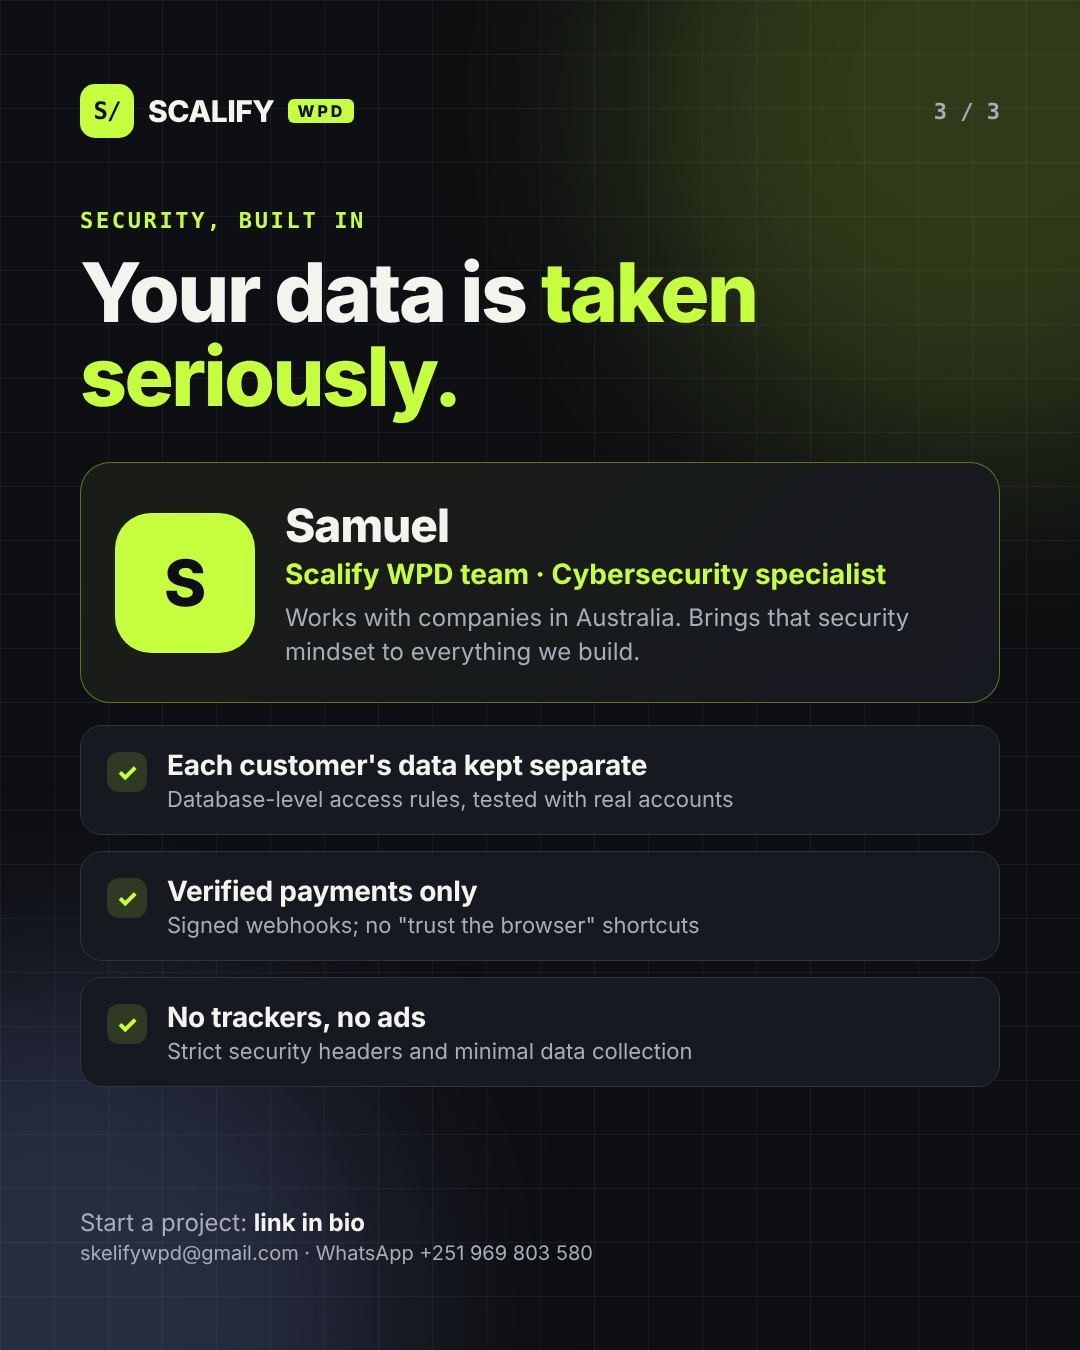
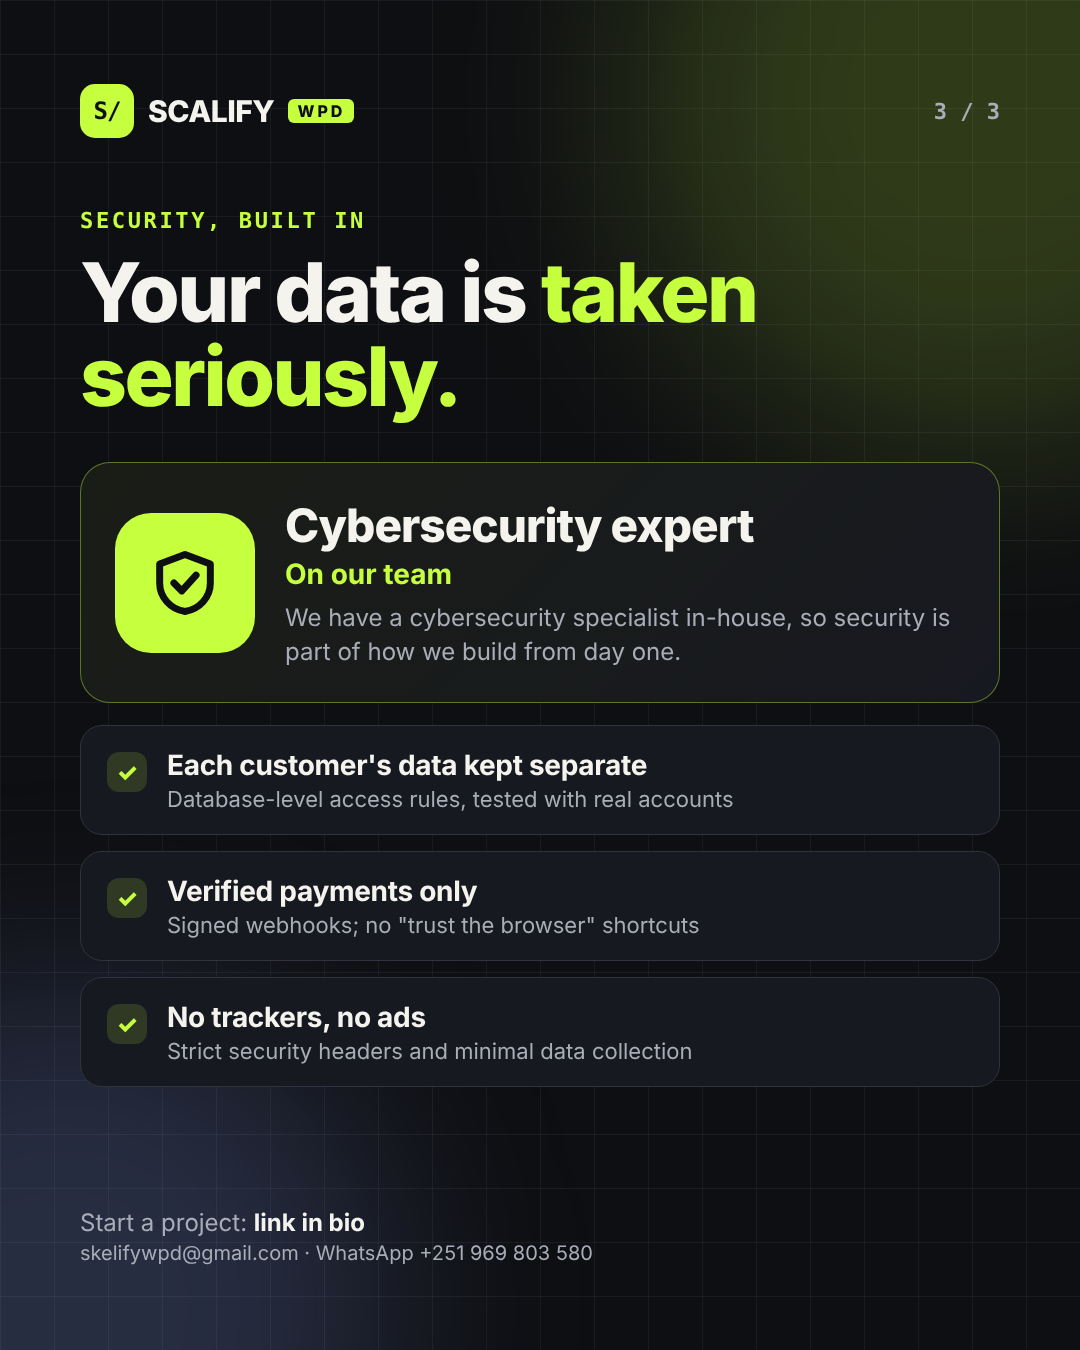
Carousel slide 3: generic in-house cybersecurity expert (no name or location)
Claude-Session: https://claude.ai/code/session_01JqvRs7i5DH97BHdXaLYKuY

Changed region(s): [[0.2444, 0.3733, 0.8556, 0.4978], [0.1222, 0.4044, 0.2139, 0.4667]]

diff --git a/marketing/carousel/slides.html b/marketing/carousel/slides.html
@@ -77,8 +77,8 @@ h1 em{font-style:normal;color:#C6FF3D}
  <div class="k">SECURITY, BUILT IN</div>
  <h1>Your data is <em>taken seriously.</em></h1>
  <div class="person">
-  <div class="av">S</div>
-  <div><div class="n">Samuel</div><div class="r">Scalify WPD team · Cybersecurity specialist</div><div class="d">Works with companies in Australia. Brings that security mindset to everything we build.</div></div>
+  <div class="av"><svg viewBox="0 0 24 24" width="76" height="76" fill="none" stroke="#0E0F12" stroke-width="2.2" stroke-linecap="round" stroke-linejoin="round"><path d="M12 3l8 3v6c0 4.5-3.4 8.3-8 9-4.6-.7-8-4.5-8-9V6z"/><path d="m8.5 12 2.5 2.5 4.5-5"/></svg></div>
+  <div><div class="n">Cybersecurity expert</div><div class="r">On our team</div><div class="d">We have a cybersecurity specialist in-house, so security is part of how we build from day one.</div></div>
  </div>
  <div class="list" style="margin-top:22px">
   <div class="row"><span class="ck">✓</span><div><b>Each customer's data kept separate</b><span>Database-level access rules, tested with real accounts</span></div></div>
